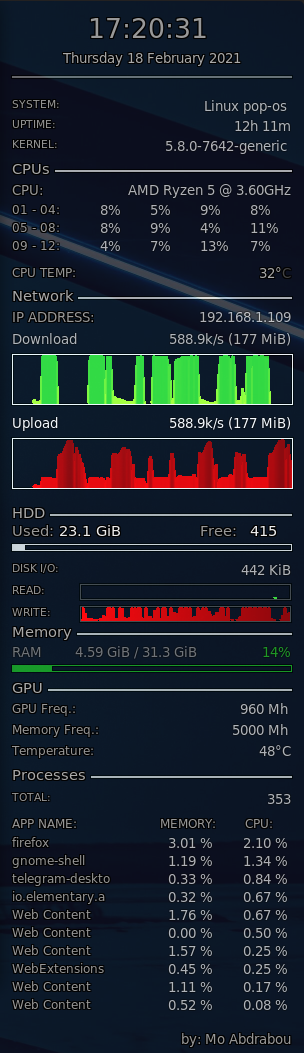
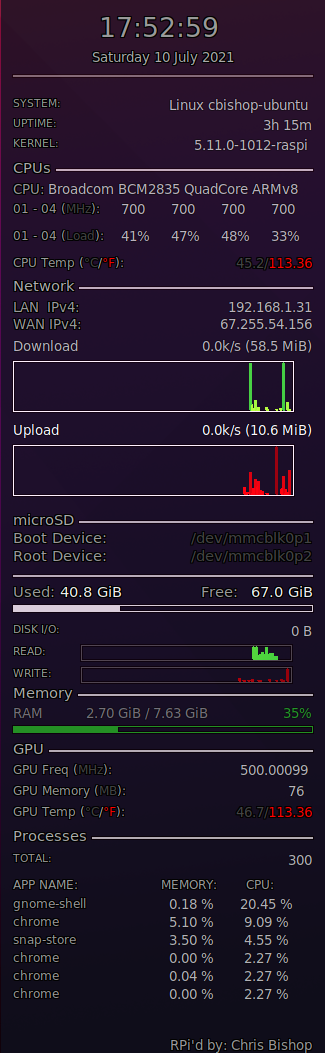
Update README.md and DesktopGuru.png screenshot accordingly

diff --git a/README.md b/README.md
@@ -1,4 +1,4 @@
-# Conky Desktop Guru
+# Conky Desktop Guru - RPi 4B+ Ubuntu 21.04 Hirsute aarch64 Fork and Port!
 #### Screenshot is below :point_down: :point_down: :point_down:
 ## How to Install
    1. Run the following command to install conky:
@@ -7,17 +7,17 @@
       > conky -C > ~/Documents/conky.config
    3. Create the conky folder in the home directory:
       > mkdir ~/.config/conky
-   4. Replace the content of the created config file with the content from [this file](https://github.com/moabdrabou/Conky_Desktop_Guru/blob/main/conky.conf) "You can use any text editor to copy the content"
+   4. Replace the content of the created config file with the content from [this file](https://github.com/chris-bishop/Conky_Desktop_Guru/blob/main/conky.conf) "You can use any text editor to copy the content"
    5. Copy the file to the conky folder in your home directory:
       > cp -v ~/Documents/conky.config ~/.config/conky
    6. Adjust the hardware configuration according to your settings
       - Network adapter parameter "Replace enp6s0 with the name of your network adapter". Run the below command to find the name of your network adapter:
          > sudo ifconfig
 
-           ![alt text](https://github.com/moabdrabou/Conky_Desktop_Guru/blob/main/Lan.png?raw=true)
-      - Processor "Replace AMD Ryzen 5 @ 3.60GHz with the name of your processor" 
+           ![alt text](https://github.com/chris-bishop/Conky_Desktop_Guru/blob/main/Lan.png?raw=true)
+      - Processor "Replace Broadcom BCM2835 QuadCore ARMv8 with the name of your processor" 
 
-           ![alt text](https://github.com/moabdrabou/Conky_Desktop_Guru/blob/main/Processor.png?raw=true)
+           ![alt text](https://github.com/chris-bishop/Conky_Desktop_Guru/blob/main/Processor.png?raw=true)
 
       - The number of your CPU cores, run the following command to find out how many cores is your CPU:
          > nproc
@@ -26,10 +26,12 @@
         - Then this command to find the name of each sensor "Make sure to change the number after hwmon to check all your sensors":
          > sudo cat /sys/class/hwmon/hwmon4/name
 
-           ![alt text](https://github.com/moabdrabou/Conky_Desktop_Guru/blob/main/Sensors.png?raw=true)
+           ![alt text](https://github.com/chris-bishop/Conky_Desktop_Guru/blob/main/Sensors.png?raw=true)
 
    7. Create an auto start item for conky to load once system is started
    
-         ![alt text](https://github.com/moabdrabou/Conky_Desktop_Guru/blob/main/DesktopGuru.png?raw=true)
+         ![alt text](https://github.com/chris-bishop/Conky_Desktop_Guru/blob/main/DesktopGuru.png?raw=true)
+
+   8. Enjoy :-) - And many thanks to [@moabdrabou](https://github.com/moabdrabou/Conky_Desktop_Guru/) for all the effort to provide the great foundation I had the pleasure of creating this fork from!
 
 
